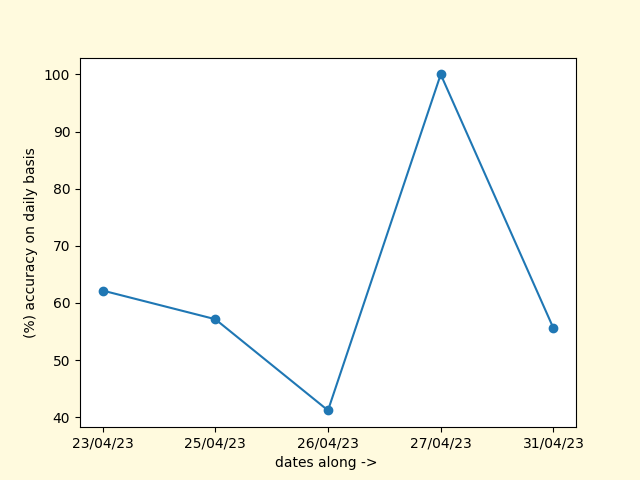
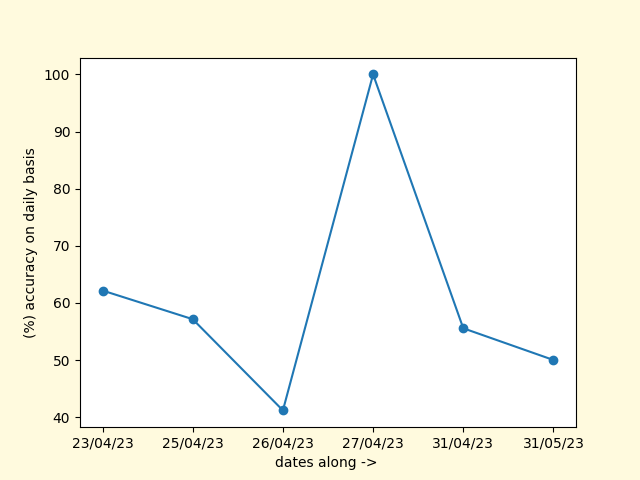
Reload issue -> data was not fetched from sheet again-> fixed now:)

diff --git a/templates/home.html b/templates/home.html
@@ -5,7 +5,7 @@
   <meta charset="UTF-8">
   <meta http-equiv="X-UA-Compatible" content="IE=edge">
   <meta name="viewport" content="width=device-width, initial-scale=1.0">
-  <title>Navigation Bar</title>
+  <title> Write-O-Braille</title>
 
   <link rel="stylesheet" href="{{ url_for('static', filename='css/style.css') }}">
 

diff --git a/templates/analysis.html b/templates/analysis.html
@@ -5,7 +5,7 @@
   <meta charset="UTF-8">
   <meta http-equiv="X-UA-Compatible" content="IE=edge">
   <meta name="viewport" content="width=device-width, initial-scale=1.0">
-  <title>Navigation Bar</title>
+  <title>Write-O-Braille</title>
 
   <link rel="stylesheet" href="{{ url_for('static', filename='css/style.css') }}">
 

diff --git a/app.py b/app.py
@@ -1,6 +1,7 @@
 from flask import Flask , render_template , jsonify
 
-from connect import grouped , df
+import pandas as pd 
+from connect import sheet
 import numpy as np
 import matplotlib.pyplot as plt 
 
@@ -18,6 +19,22 @@ def home():
 
 @app.route('/analysis')
 def analysis( ):
+    
+    data = sheet.get_all_values()
+
+    #  create a Pandas DataFrame from the data
+    df = pd.DataFrame(data[1:], columns=data[0])
+
+    df['status'] = df['status'].astype(int) - 1
+
+    # convert 'status' column to integer values
+    df['status'] = df['status'].astype(int)
+
+    # group by date and calculate the number of correct and incorrect questions
+    grouped = df.groupby('date')['status'].agg(correct='sum', incorrect='count') 
+
+    # calculate the total number of questions per date
+    grouped['total_questions'] = grouped['correct'] + grouped['incorrect']
     
     grouped1 = grouped.reset_index()
     ax = grouped1.plot.bar(x='date', y=['correct', 'incorrect'], stacked=True, width= 0.1 ,  color=['#03fc30', '#fc1303'])
@@ -91,7 +108,6 @@ def analysis( ):
         y_values_correct.append(freq['correct'])
         y_values_incorrect.append(freq['incorrect'])
         
-    x_ticks.sort()
 
     ax.barh(x_ticks, y_values_correct, label='Correct' , color ='green')
     ax.barh(x_ticks, y_values_incorrect, label='Incorrect', left=y_values_correct , color= 'red')
